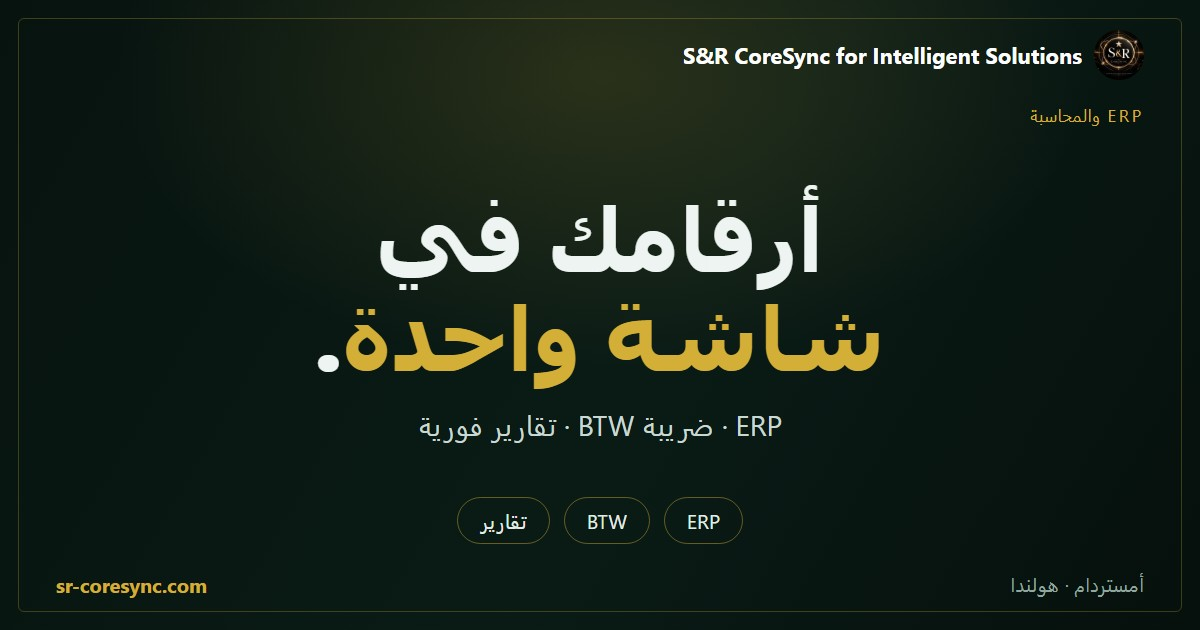
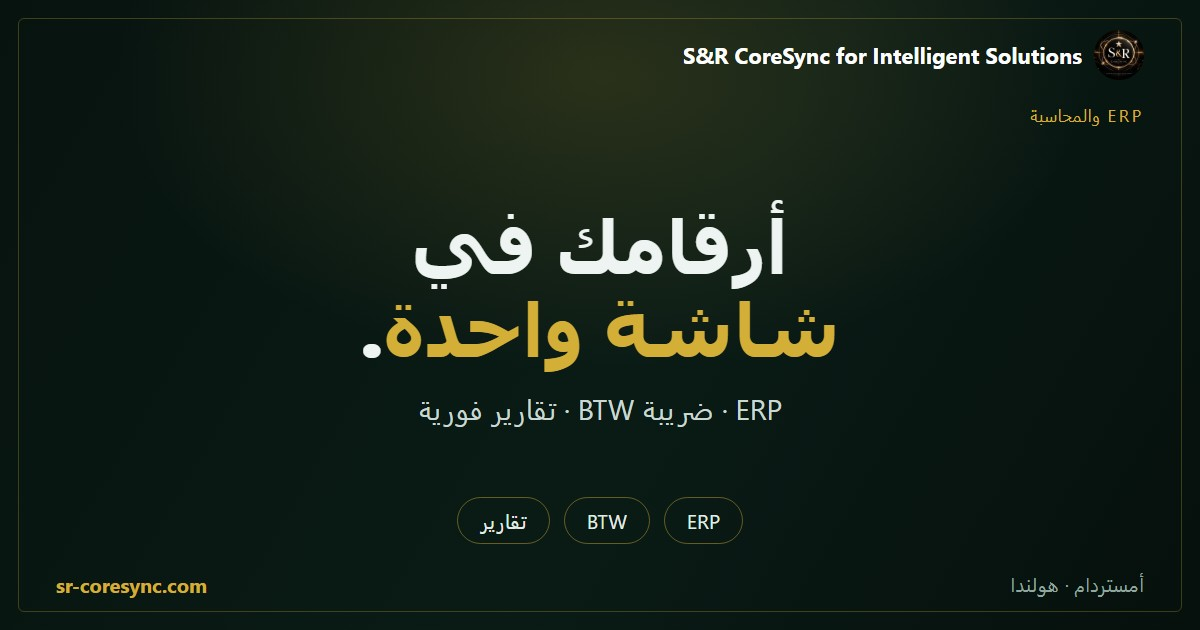
style(og): headline size tuned so both lines carry equal weight

Changed region(s): [[0.2467, 0.3016, 0.74, 0.6937]]

diff --git a/assets/og/_tmp/identity.html b/assets/og/_tmp/identity.html
@@ -1,0 +1,24 @@
+<!DOCTYPE html><html lang="ar" dir="rtl"><head><meta charset="utf-8"><style>
+@page{size:1200px 630px;margin:0}*{box-sizing:border-box;margin:0;padding:0}
+body{width:1200px;height:630px;overflow:hidden;position:relative;background:radial-gradient(760px 460px at 50% 12%,rgba(212,175,55,.16),transparent 64%),linear-gradient(120deg,#07130f,#0a1b16 55%,#06100d);font-family:"Segoe UI",Tahoma,sans-serif;color:#eef4f1;display:flex;flex-direction:column;align-items:center;justify-content:center}
+.frame{position:absolute;inset:18px;border:1px solid rgba(212,175,55,.28);border-radius:6px}
+.brand{position:absolute;top:30px;inset-inline:56px;display:flex;align-items:center;gap:12px}
+.brand img{width:50px;height:50px;object-fit:contain}
+.brand b{font-size:22px;color:#fff}
+.tag{position:absolute;top:104px;inset-inline:56px;font-size:17px;color:#d4af37;letter-spacing:.16em}
+h1{font-size:74px;line-height:1.12;font-weight:800;text-align:center;letter-spacing:-1px}
+h1 em{color:#d4af37;font-style:normal}
+p{margin-top:22px;font-size:28px;color:#c9d8d2}
+.chips{position:absolute;bottom:86px;display:flex;gap:14px}
+.chip{border:1px solid rgba(212,175,55,.45);border-radius:999px;padding:9px 22px;font-size:20px;color:#e2ece8}
+.dom{position:absolute;bottom:32px;inset-inline:56px;display:flex}
+.dom span:last-child{margin-inline-start:auto}
+.dom span{font-size:19px;color:#8fa79f}
+.dom b{color:#d4af37;font-size:20px;direction:ltr}
+</style></head><body><div class="frame"></div>
+<div class="brand"><img src="emblem.png"><b>S&amp;R CoreSync for Intelligent Solutions</b></div>
+<div class="tag">الهوية البصرية</div>
+<h1>نصنع <em>وجهًا</em><br>يُذكر.</h1><p>شعار · ألوان · دليل هوية متكامل</p>
+<div class="chips"><span class="chip">شعار</span><span class="chip">ألوان</span><span class="chip">دليل هوية</span></div>
+<div class="dom"><span>أمستردام · هولندا</span><span><b>sr-coresync.com</b></span></div>
+</body></html>

diff --git a/assets/og/_tmp/web.html b/assets/og/_tmp/web.html
@@ -1,0 +1,24 @@
+<!DOCTYPE html><html lang="ar" dir="rtl"><head><meta charset="utf-8"><style>
+@page{size:1200px 630px;margin:0}*{box-sizing:border-box;margin:0;padding:0}
+body{width:1200px;height:630px;overflow:hidden;position:relative;background:radial-gradient(760px 460px at 50% 12%,rgba(212,175,55,.16),transparent 64%),linear-gradient(120deg,#07130f,#0a1b16 55%,#06100d);font-family:"Segoe UI",Tahoma,sans-serif;color:#eef4f1;display:flex;flex-direction:column;align-items:center;justify-content:center}
+.frame{position:absolute;inset:18px;border:1px solid rgba(212,175,55,.28);border-radius:6px}
+.brand{position:absolute;top:30px;inset-inline:56px;display:flex;align-items:center;gap:12px}
+.brand img{width:50px;height:50px;object-fit:contain}
+.brand b{font-size:22px;color:#fff}
+.tag{position:absolute;top:104px;inset-inline:56px;font-size:17px;color:#d4af37;letter-spacing:.16em}
+h1{font-size:74px;line-height:1.12;font-weight:800;text-align:center;letter-spacing:-1px}
+h1 em{color:#d4af37;font-style:normal}
+p{margin-top:22px;font-size:28px;color:#c9d8d2}
+.chips{position:absolute;bottom:86px;display:flex;gap:14px}
+.chip{border:1px solid rgba(212,175,55,.45);border-radius:999px;padding:9px 22px;font-size:20px;color:#e2ece8}
+.dom{position:absolute;bottom:32px;inset-inline:56px;display:flex}
+.dom span:last-child{margin-inline-start:auto}
+.dom span{font-size:19px;color:#8fa79f}
+.dom b{color:#d4af37;font-size:20px;direction:ltr}
+</style></head><body><div class="frame"></div>
+<div class="brand"><img src="emblem.png"><b>S&amp;R CoreSync for Intelligent Solutions</b></div>
+<div class="tag">الموقع والمتجر</div>
+<h1>موقع <em>يبيع</em><br>وأنت نائم.</h1><p>تصميم سريع · متجر متكامل · دفع آمن</p>
+<div class="chips"><span class="chip">تصميم</span><span class="chip">متجر</span><span class="chip">دفع</span></div>
+<div class="dom"><span>أمستردام · هولندا</span><span><b>sr-coresync.com</b></span></div>
+</body></html>

diff --git a/assets/og/_tmp/erp.html b/assets/og/_tmp/erp.html
@@ -1,0 +1,24 @@
+<!DOCTYPE html><html lang="ar" dir="rtl"><head><meta charset="utf-8"><style>
+@page{size:1200px 630px;margin:0}*{box-sizing:border-box;margin:0;padding:0}
+body{width:1200px;height:630px;overflow:hidden;position:relative;background:radial-gradient(760px 460px at 50% 12%,rgba(212,175,55,.16),transparent 64%),linear-gradient(120deg,#07130f,#0a1b16 55%,#06100d);font-family:"Segoe UI",Tahoma,sans-serif;color:#eef4f1;display:flex;flex-direction:column;align-items:center;justify-content:center}
+.frame{position:absolute;inset:18px;border:1px solid rgba(212,175,55,.28);border-radius:6px}
+.brand{position:absolute;top:30px;inset-inline:56px;display:flex;align-items:center;gap:12px}
+.brand img{width:50px;height:50px;object-fit:contain}
+.brand b{font-size:22px;color:#fff}
+.tag{position:absolute;top:104px;inset-inline:56px;font-size:17px;color:#d4af37;letter-spacing:.16em}
+h1{font-size:74px;line-height:1.12;font-weight:800;text-align:center;letter-spacing:-1px}
+h1 em{color:#d4af37;font-style:normal}
+p{margin-top:22px;font-size:28px;color:#c9d8d2}
+.chips{position:absolute;bottom:86px;display:flex;gap:14px}
+.chip{border:1px solid rgba(212,175,55,.45);border-radius:999px;padding:9px 22px;font-size:20px;color:#e2ece8}
+.dom{position:absolute;bottom:32px;inset-inline:56px;display:flex}
+.dom span:last-child{margin-inline-start:auto}
+.dom span{font-size:19px;color:#8fa79f}
+.dom b{color:#d4af37;font-size:20px;direction:ltr}
+</style></head><body><div class="frame"></div>
+<div class="brand"><img src="emblem.png"><b>S&amp;R CoreSync for Intelligent Solutions</b></div>
+<div class="tag">ERP والمحاسبة</div>
+<h1>أرقامك في<br><em>شاشة واحدة</em>.</h1><p>ERP · ضريبة BTW · تقارير فورية</p>
+<div class="chips"><span class="chip">ERP</span><span class="chip">BTW</span><span class="chip">تقارير</span></div>
+<div class="dom"><span>أمستردام · هولندا</span><span><b>sr-coresync.com</b></span></div>
+</body></html>
